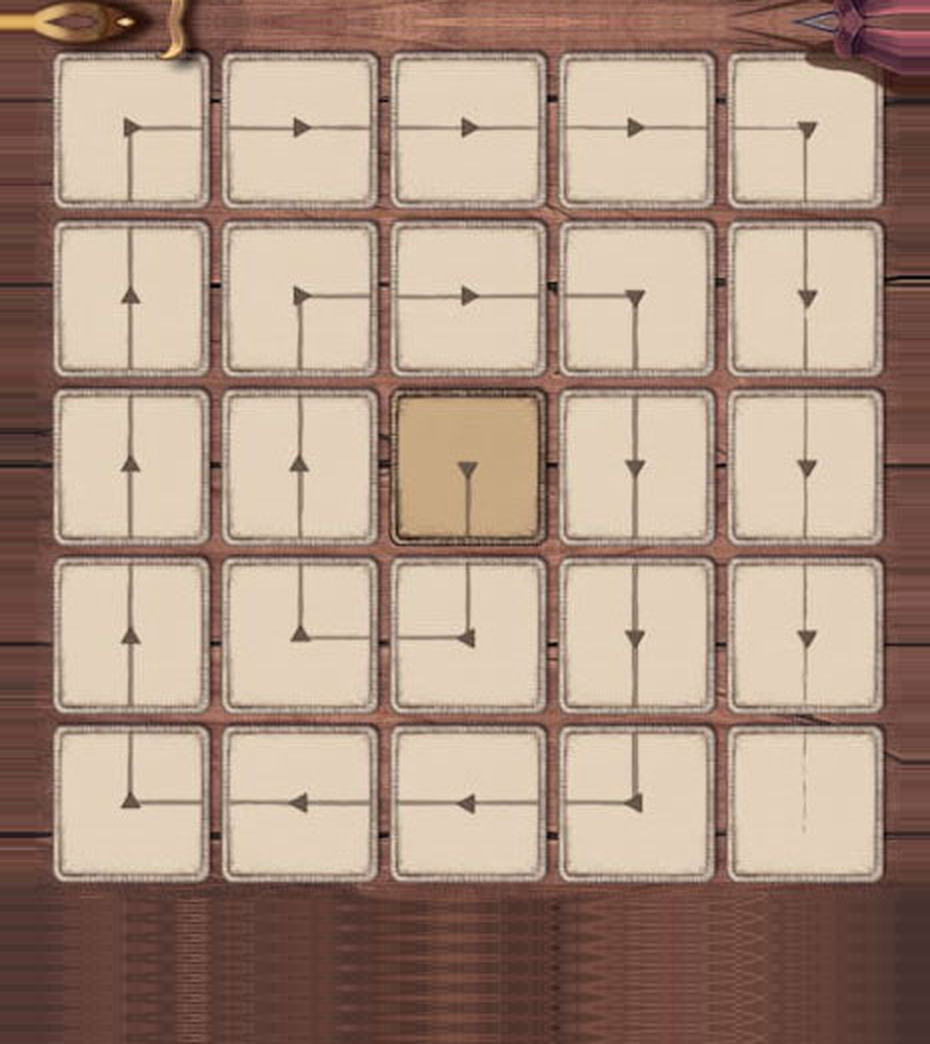
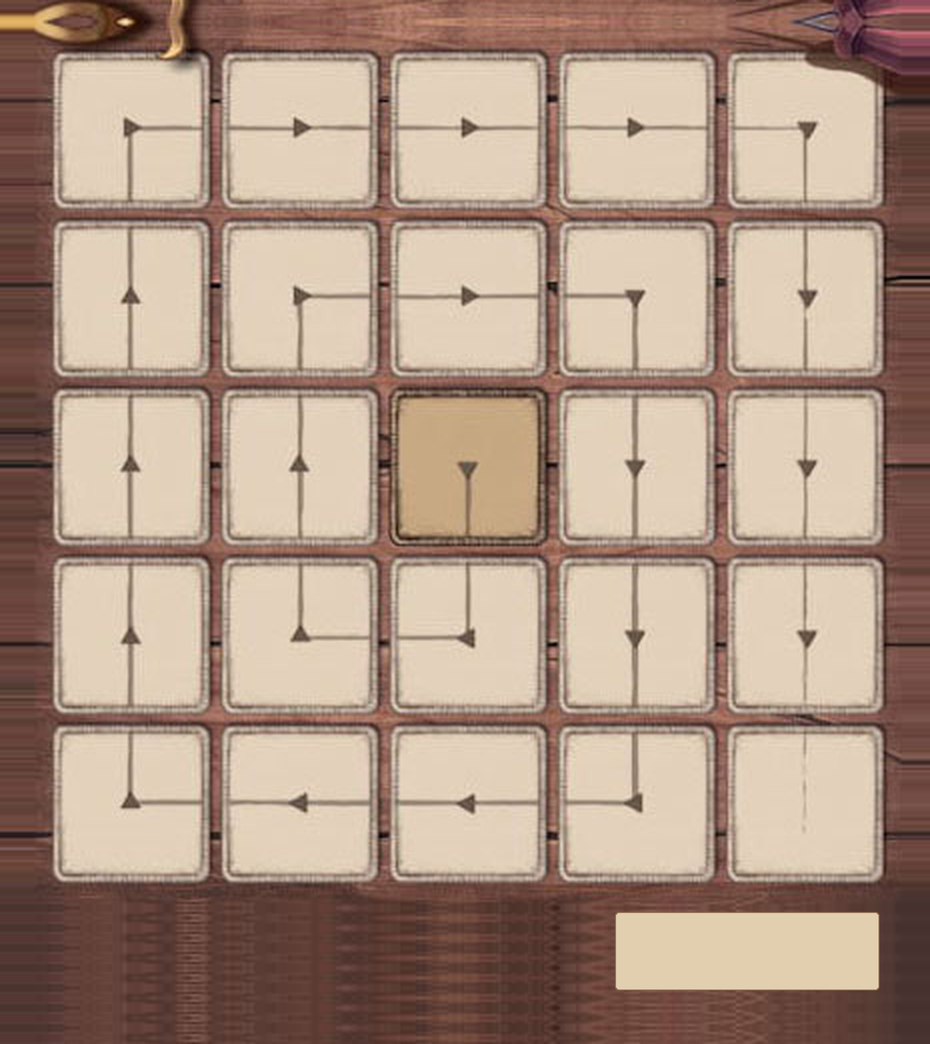
Keep the scroll slot on the classic board and make disabled buttons solid.

Changed region(s): [[0.6548, 0.8582, 0.9667, 0.9502]]

diff --git a/src/styles.css b/src/styles.css
@@ -185,7 +185,6 @@ html[data-look=classic] .back.lv3 { background: url(/classic/backs/level-3.jpg) 
 .boardscrolls { position: absolute; left: calc(var(--cell) * 3.942); top: calc(var(--cell) * 5.846); width: calc(var(--cell) * 1.692); height: calc(var(--cell) * 0.5); display: flex; align-items: center; justify-content: center; }
 .woodbtn { display: flex; align-items: center; justify-content: center; gap: 4px; min-width: 0; border-radius: 6px; background: transparent; color: #4a2612; font-weight: 700; line-height: 1.05; text-align: center; cursor: pointer; }
 .woodbtn:hover:not(:disabled) { background: rgba(94, 50, 28, 0.16); }
-.woodbtn:disabled { opacity: 0.35; cursor: default; }
 .woodbtn.go { background: #e0b64a; color: #2a1706; }
 .stage .board-wrap.two { background-image: url(/modern/boards/board-2-buttons.svg); }
 .boardbtns.two { grid-template-columns: repeat(2, 1fr); gap: calc(var(--cell) * 0.0962); }
@@ -218,4 +217,5 @@ html[data-look=classic] .stage .board-wrap, html[data-look=classic] .stage .boar
 html[data-look=classic] .woodbtn { background: #e1cfb0; border: 2px solid #8f6c50; color: #3a2616; }
 html[data-look=classic] .woodbtn.go { background: #e0b64a; }
 html[data-look=classic] .boardscrolls { gap: calc(var(--cell) * 0.12); }
-html[data-look=classic] .woodbtn:disabled { opacity: 0.6; }
+html[data-look=classic] .woodbtn:disabled { opacity: 1; background: #cdbd9f; color: #8a7a62; border-color: #9a8466; }
+.woodbtn:disabled { opacity: 1; color: #a39682; }
